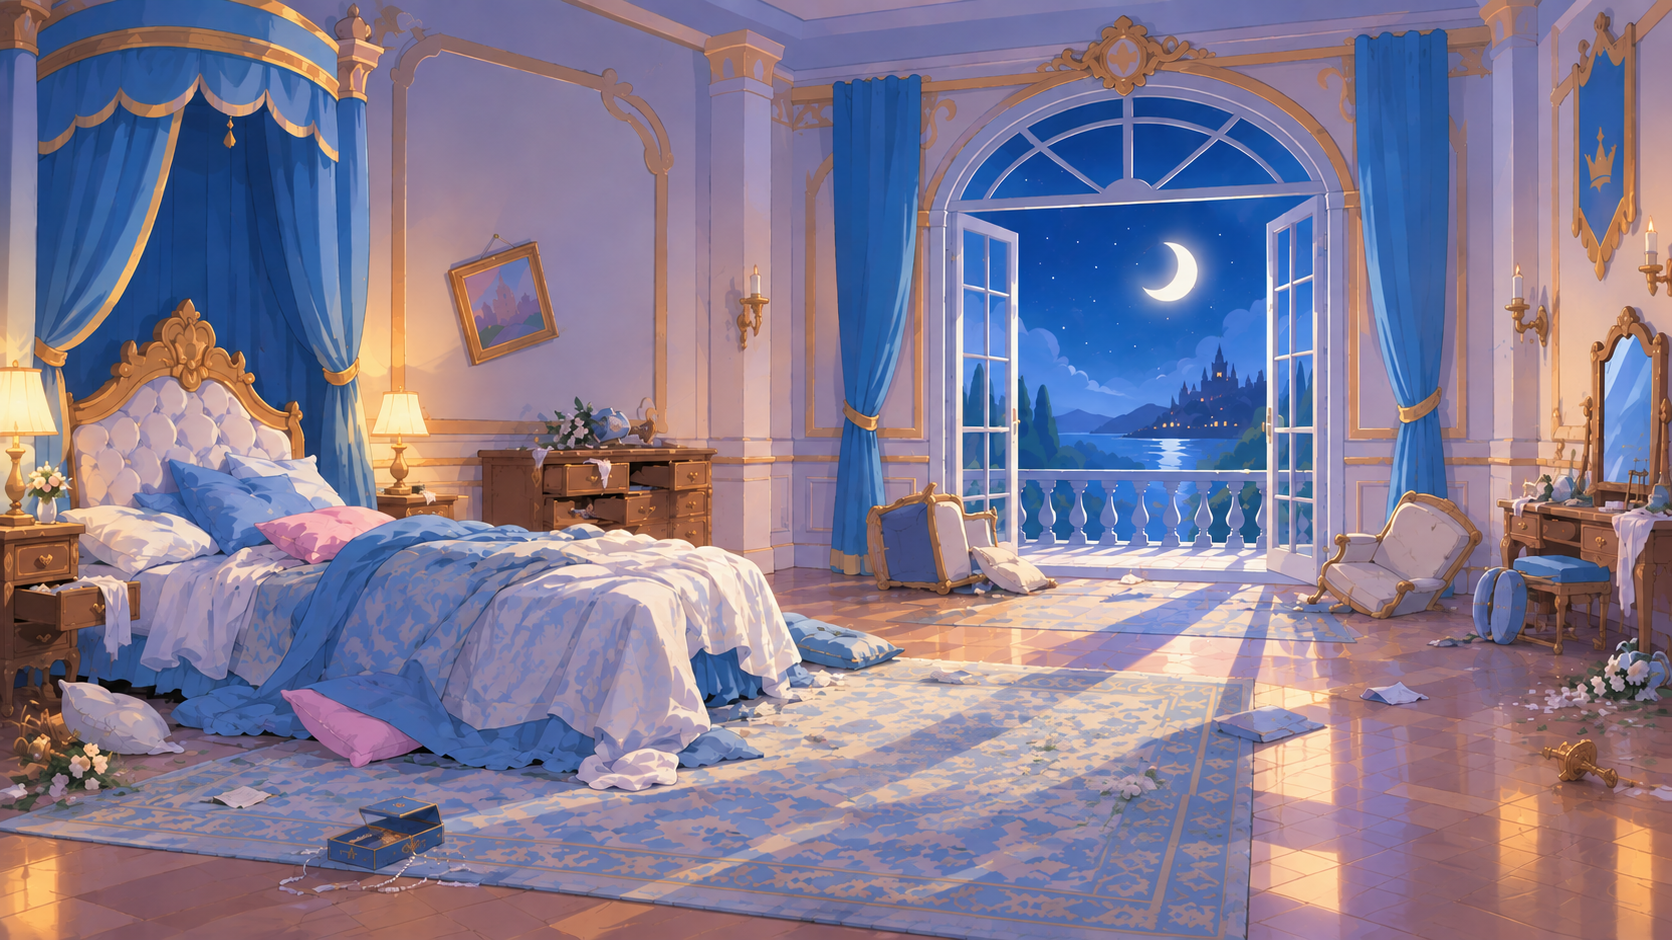
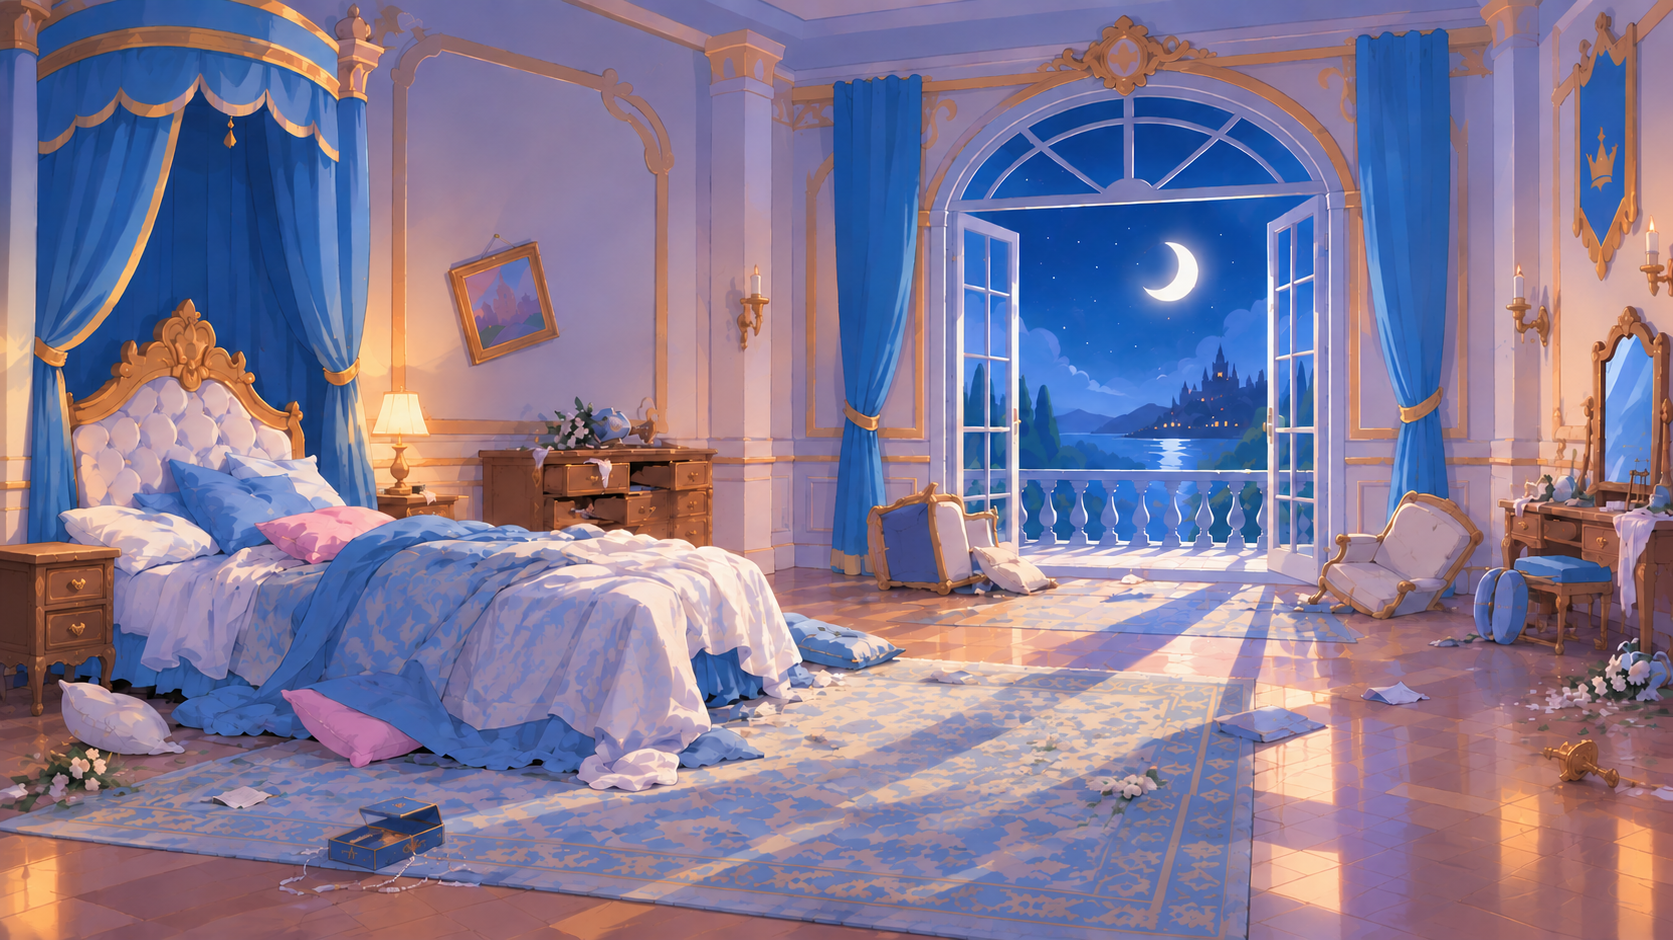
them

diff --git a/scenes/princess_room.py b/scenes/princess_room.py
@@ -50,23 +50,25 @@ class PrincessRoomScene(Scene):
         self.yarn_image = self._load_prop("Yarn_ball.png")
         self.letter_image = self._load_prop("Letter.png")
         self.scale_image = self._load_prop("Dragon_scale.png")
-        self.chest_closed_scaled = self._scaled(self.chest_closed_image, (155, 128))
-        self.chest_open_scaled = self._scaled(self.chest_open_image, (155, 128))
+        self.magnifier_image = self._load_prop("magnifying glass.png")
+        self.magnifier_icon = self._scaled(self.magnifier_image, (42, 42))
+        self.chest_closed_scaled = self._scaled(self.chest_closed_image, (78, 64))
+        self.chest_open_scaled = self._scaled(self.chest_open_image, (78, 64))
         self.yarn_icon = self._scaled(self.yarn_image, (50, 50))
         self.letter_item_icon = self._scaled(self.letter_image, (80, 48))
         self.letter_panel_image = self._scaled(self.letter_image, (760, 370))
-        self.scale_tiny = self._scaled(self.scale_image, (9, 12))
+        self.scale_tiny = self._scaled(self.scale_image, (6, 8))
         self.scale_found_icon = self._scaled(self.scale_image, (18, 22))
         self.scale_inventory_icon = self._scaled(self.scale_image, (36, 36))
         self.cat = self._make_cat()
         self.cat_x = 930.0
         self.cat_y = 545
-        self.cat_hitbox = pygame.Rect(860, 405, 150, 145)
-        self.chest_hitbox = pygame.Rect(218, 578, 160, 135)
+        self.cat_hitbox = pygame.Rect(880, 440, 100, 100)
+        self.chest_hitbox = pygame.Rect(14, 400, 82, 68)
         self.yarn_hitbox = pygame.Rect(272, 610, 42, 45)
         self.letter_hitbox = pygame.Rect(890, 510, 80, 48)
-        self.magnifier_hitbox = pygame.Rect(580, 635, 54, 30)
-        self.scale_hitbox = pygame.Rect(985, 510, 18, 16)
+        self.magnifier_hitbox = pygame.Rect(580, 635, 42, 42)
+        self.scale_hitbox = pygame.Rect(754, 487, 12, 10)
         self.modal = None
         self.dialogue = ("Hiệp sĩ", "Con mèo này thật là đáng nghi...")
         self.dialog_pages = []
@@ -292,9 +294,11 @@ class PrincessRoomScene(Scene):
             if self.cat_hitbox.collidepoint(pos):
                 self.state.magnifier_active = False
             if self.scale_hitbox.inflate(22, 22).collidepoint(pos) and self.state.magnifier_active and self.state.letter_read:
+                self._move_knight_to((710, 450))
                 self._collect_scale()
             return
         if self.selected_item == "pink_yarn" and self.cat_hitbox.collidepoint(pos):
+            self._move_knight_to((self.cat_x - 340, self.cat_y - 160))
             self.game_state.inventory.remove("pink_yarn")
             self.selected_item = None
             self._say("Mèo", "Meo~ Cuối cùng cũng tìm thấy rồi!", self._start_cat_walk)
@@ -326,19 +330,24 @@ class PrincessRoomScene(Scene):
 
     def _room_click(self, pos):
         if self.state.magnifier_active and self.state.letter_read and self.scale_hitbox.inflate(22, 22).collidepoint(pos):
+            self._move_knight_to((710, 450))
             self._collect_scale()
         elif self.magnifier_hitbox.collidepoint(pos) and not self.state.magnifier_collected:
+            self._move_knight_to((580, 560))
             self.state.magnifier_collected = True
             self._add_item("magnifying_glass")
         elif self.state.letter_revealed and self.letter_hitbox.collidepoint(pos):
+            self._move_knight_to((820, 455))
             self.modal = "letter"
             self.state.letter_read = True
         elif self.cat_hitbox.collidepoint(pos):
+            self._move_knight_to((self.cat_x - 340, self.cat_y - 160))
             if self.selected_item == "pink_yarn":
                 self._use_selected(pos)
             elif not self.state.cat_moved:
                 self._say("Mèo", "Thứ đồ yêu thích màu hồng của ta đâu rồi?", self._mark_cat_questioned)
         elif self.chest_hitbox.collidepoint(pos):
+            self._move_knight_to((self.chest_hitbox.right + 8, self.chest_hitbox.bottom - 130))
             if not self.state.cat_questioned:
                 self._say("Hiệp sĩ", "Ta nên hỏi con mèo kia xem nó biết gì trước đã.")
                 return
@@ -348,6 +357,10 @@ class PrincessRoomScene(Scene):
             elif not self.state.pink_yarn_collected:
                 self.state.pink_yarn_collected = True
                 self._add_item("pink_yarn")
+
+    def _move_knight_to(self, position):
+        if self.knight:
+            self.knight.move_to(*position)
 
     def _mark_cat_questioned(self):
         self.state.cat_questioned = True
@@ -385,7 +398,7 @@ class PrincessRoomScene(Scene):
         # missing prop art is drawn as simple, readable fantasy placeholders.
         self._draw_chest(screen)
         if self.knight:
-            self.knight.draw(screen, size=(105, 145))
+            self.knight.draw(screen, size=(315, 435))
         if not self.state.cat_moved:
             self._draw_cat(screen)
         if self.state.letter_revealed:
@@ -394,7 +407,7 @@ class PrincessRoomScene(Scene):
             else:
                 pygame.draw.rect(screen, (231, 207, 151), self.letter_hitbox, border_radius=4)
         if not self.state.magnifier_collected:
-            self._draw_magnifier(screen, (self.magnifier_hitbox.centerx, self.magnifier_hitbox.centery), 0.48)
+            self._draw_magnifier_item(screen, self.magnifier_hitbox.center, 0.48)
         self._draw_scale(screen)
         self._draw_hud(screen)
         if self.modal == "dialog":
@@ -420,23 +433,23 @@ class PrincessRoomScene(Scene):
         if self.cat:
             frame = self.cat.get_current_frame()
             if frame:
-                frame = pygame.transform.smoothscale(frame, (145, 145))
+                frame = pygame.transform.smoothscale(frame, (97, 97))
                 screen.blit(frame, frame.get_rect(midbottom=(int(self.cat_x), self.cat_y)))
         else:
             pygame.draw.ellipse(screen, (210, 157, 127), (self.cat_x - 55, self.cat_y - 95, 110, 80))
             pygame.draw.circle(screen, (225, 178, 145), (int(self.cat_x), self.cat_y - 95), 35)
-        self.cat_hitbox.centerx = int(self.cat_x)
+        self.cat_hitbox.center = (int(self.cat_x), self.cat_y - 50)
 
     def _draw_chest(self, screen):
         image = self.chest_open_scaled if self.state.chest_opened else self.chest_closed_scaled
         if image:
-            screen.blit(image, (220, 585))
+            screen.blit(image, (4, 360))
             if self.state.chest_opened and not self.state.pink_yarn_collected:
-                self._draw_yarn(screen, (296, 642), 25)
+                self._draw_yarn(screen, (55, 428), 18)
         else:
-            x, y = 232, 605
-            pygame.draw.rect(screen, (97, 54, 35), (x, y, 125, 72), border_radius=8)
-            pygame.draw.rect(screen, (175, 119, 61), (x, y, 125, 72), 5, border_radius=8)
+            x, y = 4,360
+            pygame.draw.rect(screen, (97, 54, 35), (x, y, 78, 48), border_radius=8)
+            pygame.draw.rect(screen, (175, 119, 61), (x, y, 78, 48), 4, border_radius=8)
             pygame.draw.rect(screen, (207, 166, 79), (x + 54, y + 20, 18, 24), border_radius=4)
 
     def _draw_yarn(self, screen, center, radius=18):
@@ -462,6 +475,12 @@ class PrincessRoomScene(Scene):
         radius = int(20 * scale)
         pygame.draw.circle(screen, (222, 207, 168), center, radius, max(2, int(5 * scale)))
         pygame.draw.line(screen, (104, 67, 39), (center[0] + radius - 2, center[1] + radius - 2), (center[0] + radius * 2, center[1] + radius * 2), max(3, int(7 * scale)))
+
+    def _draw_magnifier_item(self, screen, center, fallback_scale=1):
+        if self.magnifier_icon:
+            screen.blit(self.magnifier_icon, self.magnifier_icon.get_rect(center=center))
+        else:
+            self._draw_magnifier(screen, center, fallback_scale)
 
     def _draw_lens(self, screen):
         source = screen.copy()
@@ -544,7 +563,7 @@ class PrincessRoomScene(Scene):
             if item == "pink_yarn":
                 self._draw_yarn(screen, (rect.x + 37, rect.centery), 18)
             elif item == "magnifying_glass":
-                self._draw_magnifier(screen, (rect.x + 34, rect.centery), 0.8)
+                self._draw_magnifier_item(screen, (rect.x + 34, rect.centery), 0.8)
             elif item == "red_dragon_scale" and self.scale_inventory_icon:
                 screen.blit(self.scale_inventory_icon, self.scale_inventory_icon.get_rect(center=(rect.x + 36, rect.centery)))
             else:
